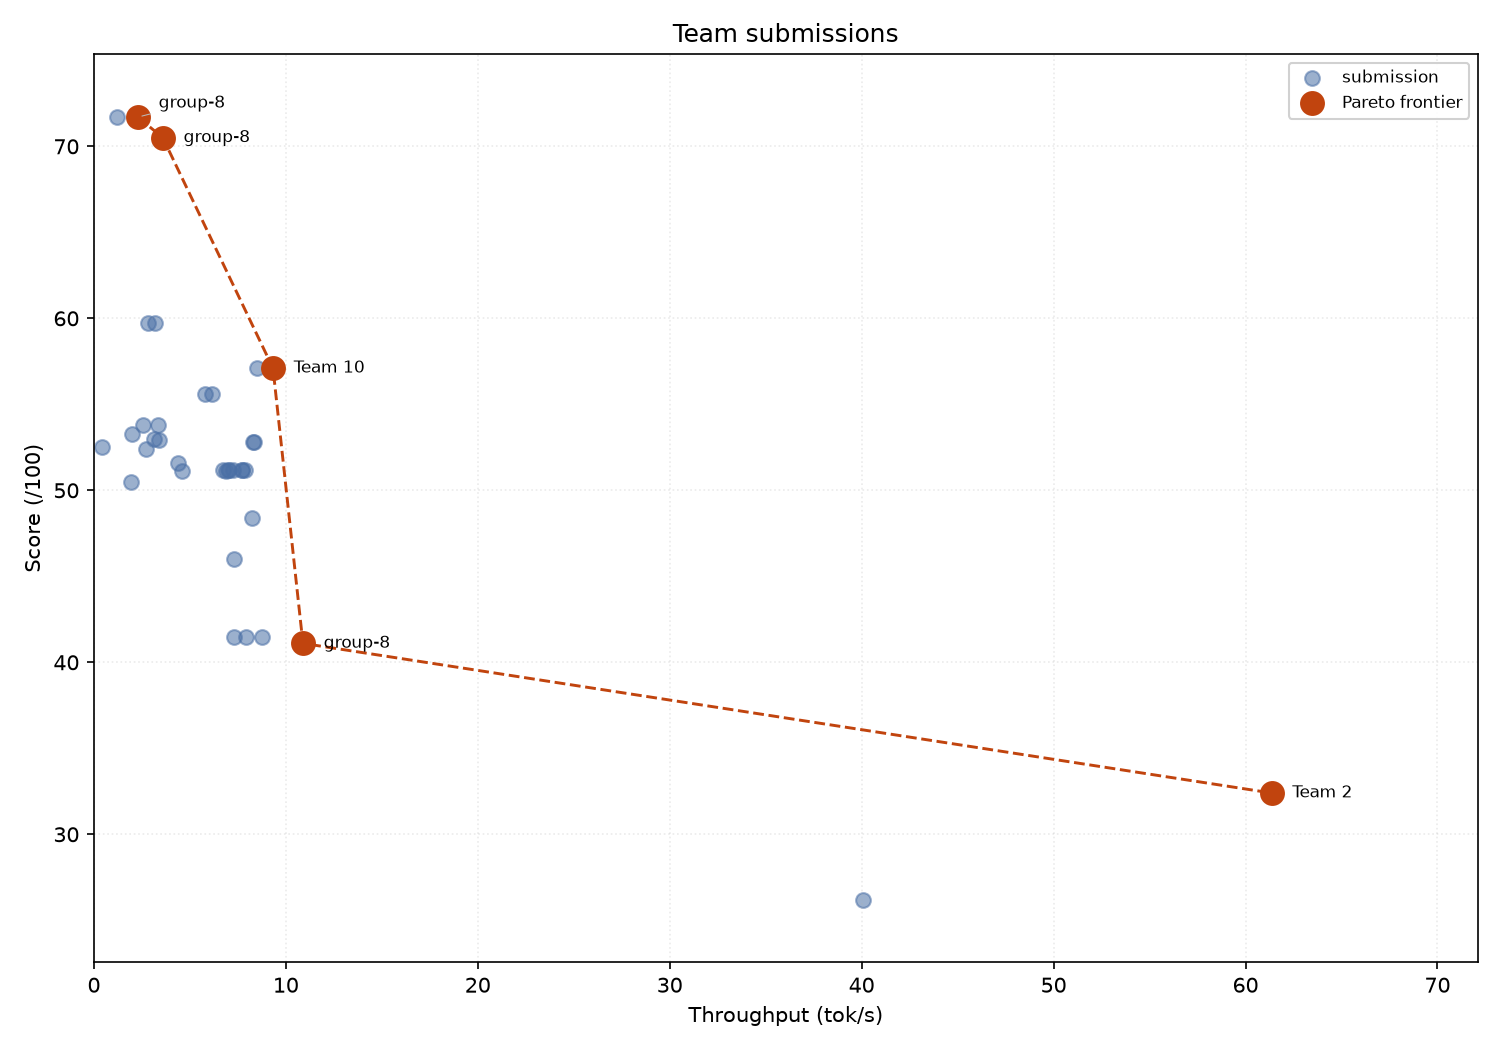
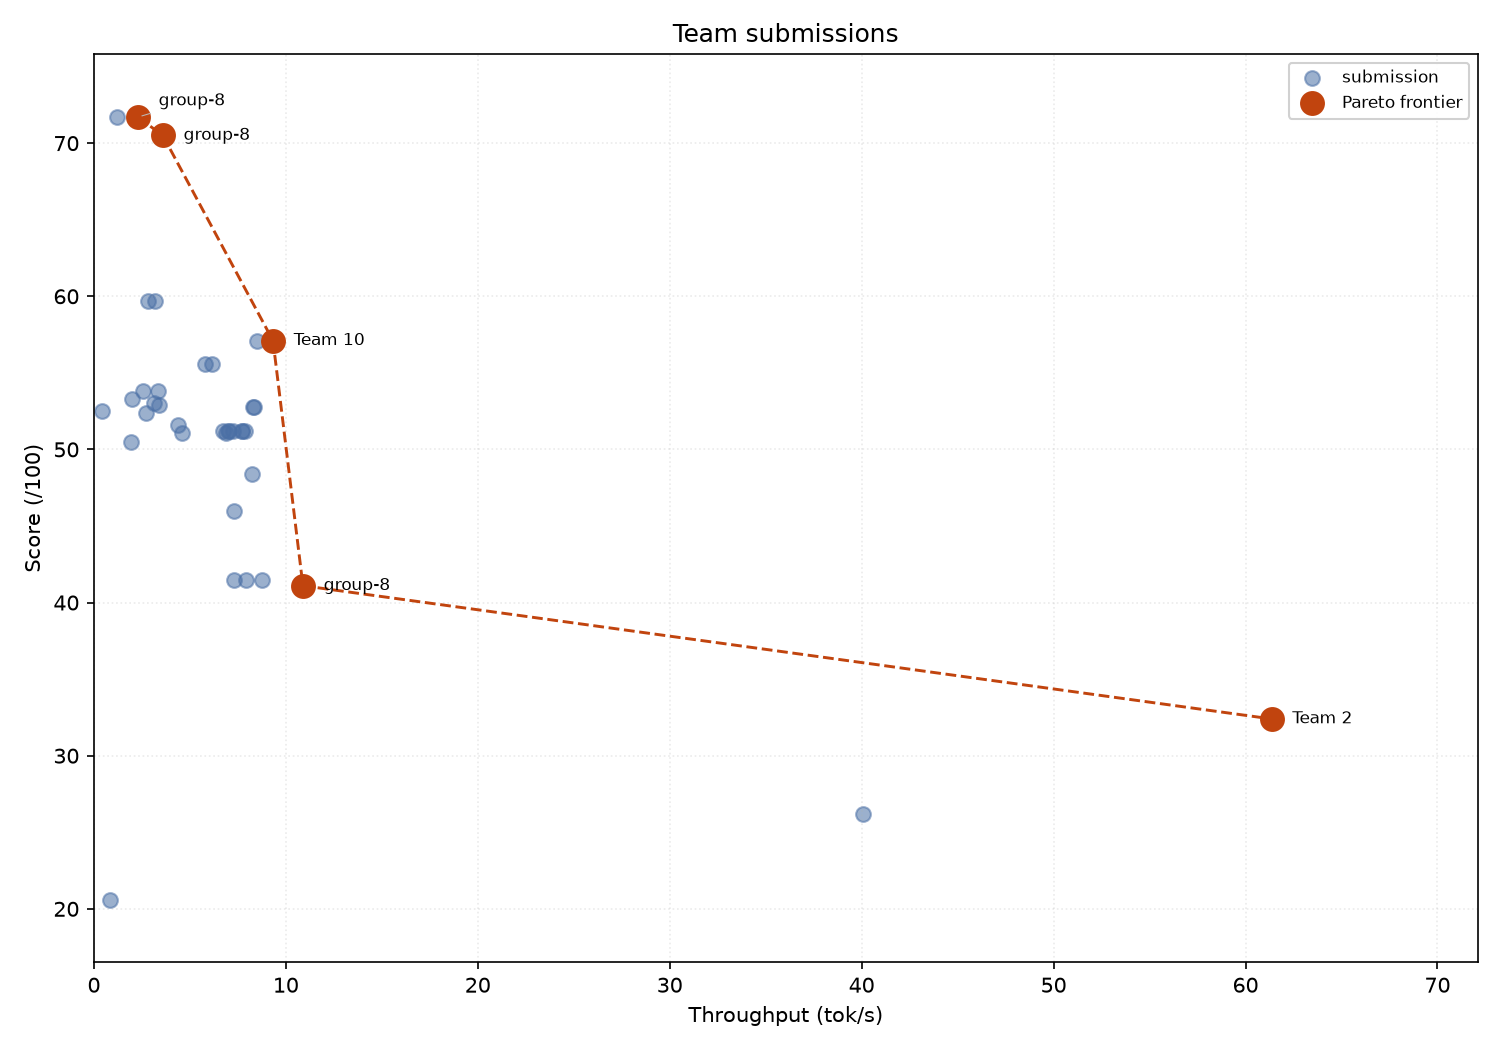
result: group-14 c7014e34

diff --git a/README.md b/README.md
@@ -1,6 +1,6 @@
 # Results
 
-Generated 2026-11-18 06:27:38 UTC · 37 run(s) across 6 team(s).
+Generated 2026-11-18 22:47:17 UTC · 38 run(s) across 7 team(s).
 
 ![Pareto frontier](summary/pareto.png)
 
@@ -13,4 +13,5 @@ Generated 2026-11-18 06:27:38 UTC · 37 run(s) across 6 team(s).
 | group-5 | 57.1 | 9.33 | `b92d7dd8` | 1 |
 | group-9 | 41.5 | 8.78 | `8933708f` | 0 |
 | group-15 | 50.5 | 1.95 | `2a3615e8` | 0 |
+| group-14 | 20.6 | 0.82 | `c7014e34` | 0 |
 | group-7 | 52.5 | 0.41 | `23b0053b` | 0 |
